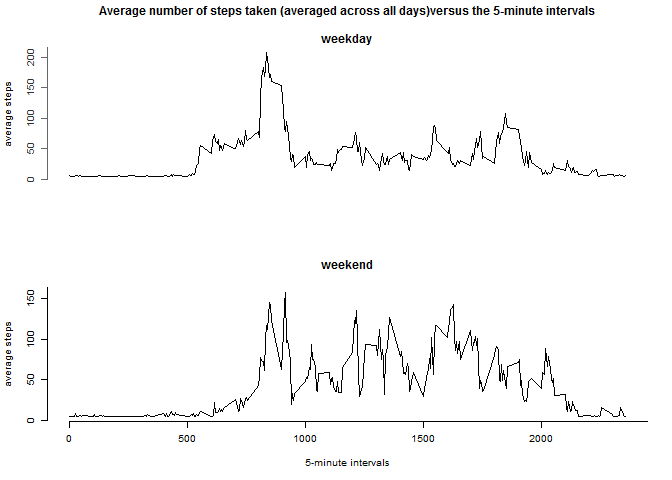
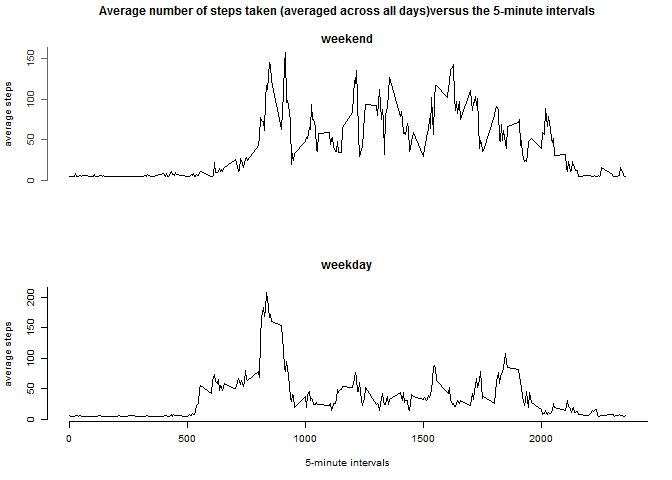
Final version

diff --git a/PA1_template.html b/PA1_template.html
@@ -55,6 +55,7 @@ if (window.hljs && document.readyState && document.readyState === "complete") {
 </div>
 
 
+<p>This is Peer Assessment 1 of the Coursera <strong>Reproducible Research</strong> course.<br />This document analyzes data collected from a personal activity monitoring device over a two months period (October and November, 2012). The observations are related to the number of steps walked each day, taken at 5-minute intervals over the day.</p>
 <div id="loading-and-preprocessing-the-data" class="section level2">
 <h2>Loading and preprocessing the data</h2>
 <p>The <strong>activity.csv</strong> data file containing the observations is read and the <strong>act</strong> dataset is created:</p>
@@ -94,7 +95,7 @@ str(aggByDate)</code></pre>
 </div>
 <div id="what-is-the-average-daily-activity-pattern" class="section level2">
 <h2>What is the average daily activity pattern?</h2>
-<p>In order to perform this analysis, a new dataset is created, having an aggregation of the steps taken by each of the 5-minutes interval during the day. The aggregation function will be the <em>mean</em> in this case, as we want to have the average number of steps taken by increment:</p>
+<p>In order to perform this analysis, a new dataset is created, having an aggregation of the steps taken by each of the 5-minute intervals during the day. The aggregation function will be the <em>mean</em> in this case, as we want to have the average number of steps taken by increment:</p>
 <pre class="r"><code>aggByInterval &lt;- aggregate(act[&quot;steps&quot;], by=act[&quot;interval&quot;], FUN=&quot;mean&quot;, na.rm=TRUE)
 str(aggByInterval)</code></pre>
 <pre><code>## 'data.frame':    288 obs. of  2 variables:
@@ -171,19 +172,19 @@ actWE &lt;- subset(actNoNA, daytype==&quot;weekend&quot;)</code></pre>
 aggWEbyInt &lt;- aggregate(actWE[&quot;steps&quot;],
           by=actWE[&quot;interval&quot;],
           FUN=&quot;mean&quot;)</code></pre>
-<p>Finally, the plot is generated:</p>
+<p>Finally, the panel plot is generated:</p>
 <pre class="r"><code>par(mfrow=c(2,1))
 par(cex = 0.6)
-plot(aggWDbyInt, axes=FALSE, type=&quot;l&quot;, main=&quot;Average number of steps taken (averaged across all days)versus the 5-minute intervals\n\nweekday&quot;, xlab=&quot;&quot;,
+plot(aggWEbyInt, axes=FALSE, type=&quot;l&quot;, main=&quot;Average number of steps taken (averaged across all days)versus the 5-minute intervals\n\nweekend&quot;, xlab=&quot;&quot;,
      ylab=&quot;average steps&quot;)
 axis(2, col=&quot;grey40&quot;, col.axis=&quot;grey20&quot;, at=seq(0, 250, 50))
-plot(aggWEbyInt, axes=FALSE, type=&quot;l&quot;, main=&quot;weekend&quot;, xlab=&quot;5-minute intervals&quot;,
+plot(aggWDbyInt, axes=FALSE, type=&quot;l&quot;, main=&quot;weekday&quot;, xlab=&quot;5-minute intervals&quot;,
      ylab=&quot;average steps&quot;)
 axis(1, at=seq(0, 2500, 500))
 axis(2, at=seq(0, 250, 50))</code></pre>
[2 lines of base64/hex data omitted]
 <hr />
-<p>By comparing the two plots, one may get the idea that the observations are taken from a person having a sedentary work. In the central part of the weekdays the average number of steps is consistently lower than that performed during the weekends. The high activity during the weekends might also refer to the fact that the person is profiting of the weekends for fitness related activities.<br /><strong>end of document</strong></p>
+<p>By comparing the two plots, one may get the idea that the observations are taken from a person having a sedentary work. In the central part of the weekdays the average number of steps is consistently lower than that performed during the weekends. The high activity during the weekends might also refer to the fact that the person is profiting of the weekends for fitness related activities.<br /><strong>end of document - 20150209</strong></p>
 </div>
 
 

diff --git a/PA1_template.md b/PA1_template.md
@@ -1,5 +1,7 @@
 # Reproducible Research: Peer Assessment 1
 
+This is Peer Assessment 1 of the Coursera **Reproducible Research** course.  
+This document analyzes data collected from a personal activity monitoring device over a two months period (October and November, 2012). The observations are related to the number of steps walked each day, taken at 5-minute intervals over the day. 
 
 ## Loading and preprocessing the data
 The **activity.csv** data file containing the observations is read and the **act** dataset is created:
@@ -93,7 +95,7 @@ median(aggByDate$steps, na.rm=TRUE)
 
 
 ## What is the average daily activity pattern?
-In order to perform this analysis, a new dataset is created, having an aggregation of the steps taken by each of the 5-minutes interval during the day.
+In order to perform this analysis, a new dataset is created, having an aggregation of the steps taken by each of the 5-minute intervals during the day.
 The aggregation function will be the *mean* in this case, as we want to have the average number of steps taken by increment:
 
 ```r
@@ -266,15 +268,15 @@ aggWEbyInt <- aggregate(actWE["steps"],
           FUN="mean")
 ```
 
-Finally, the plot is generated:
+Finally, the panel plot is generated:
 
 ```r
 par(mfrow=c(2,1))
 par(cex = 0.6)
-plot(aggWDbyInt, axes=FALSE, type="l", main="Average number of steps taken (averaged across all days)versus the 5-minute intervals\n\nweekday", xlab="",
+plot(aggWEbyInt, axes=FALSE, type="l", main="Average number of steps taken (averaged across all days)versus the 5-minute intervals\n\nweekend", xlab="",
      ylab="average steps")
 axis(2, col="grey40", col.axis="grey20", at=seq(0, 250, 50))
-plot(aggWEbyInt, axes=FALSE, type="l", main="weekend", xlab="5-minute intervals",
+plot(aggWDbyInt, axes=FALSE, type="l", main="weekday", xlab="5-minute intervals",
      ylab="average steps")
 axis(1, at=seq(0, 2500, 500))
 axis(2, at=seq(0, 250, 50))
@@ -284,7 +286,7 @@ axis(2, at=seq(0, 250, 50))
 
 ---
 By comparing the two plots, one may get the idea that the observations are taken from a person having a sedentary work. In the central part of the weekdays the average number of steps is consistently lower than that performed during the weekends. The high activity during the weekends might also refer to the fact that the person is profiting of the weekends for fitness related activities.  
-**end of document**
+**end of document - 20150209**
 
 
 
